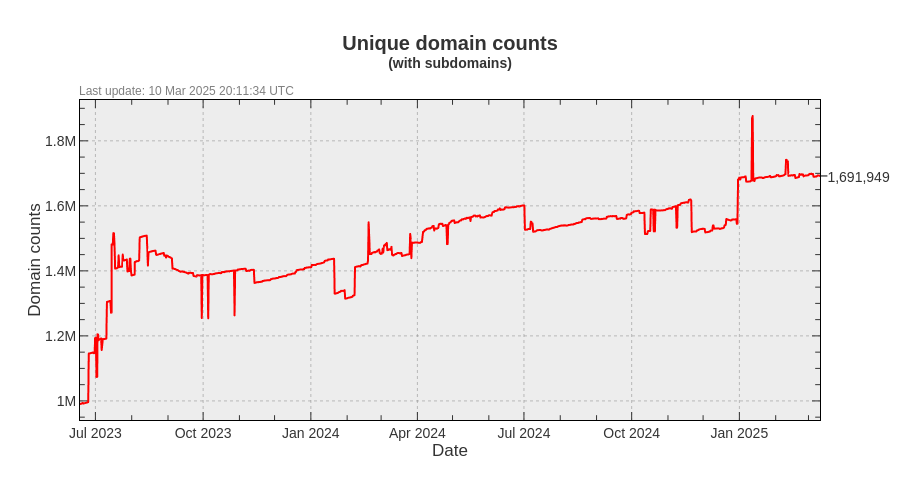
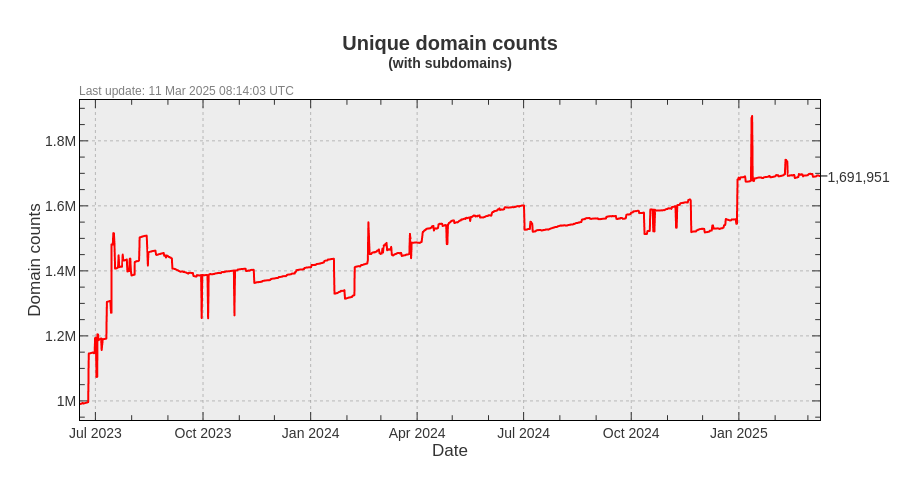
Update pages

diff --git a/README.md b/README.md
@@ -3,22 +3,22 @@ A blacklist file for blocking ads, trackers and malware domains.
 
[1 lines of base64/hex data omitted]
 
-- Unique domains: 1,691,949
-- Without subdomains: 1,070,006
-- Last update: 10 Mar 2025 20:11:34 UTC
-- Version: 2025.03.10.02
+- Unique domains: 1,691,951
+- Without subdomains: 1,069,937
+- Last update: 11 Mar 2025 08:14:03 UTC
+- Version: 2025.03.11.01
 
 
 ### Downloads:
 
 | Format             | Domain count      | Download Link |
 |:------------------ | -----------------:|:-------------:|
-| *Adblock Plus*     | 1,070,006 | [Download](https://dl.cenk.app/bad-hosts/bad-hosts-abp) |
-| *Wildcard domains* | 1,070,006 | [Download](https://dl.cenk.app/bad-hosts/bad-hosts-wildcard) |
-| *dnsmasq*          | 1,070,006 | [Download](https://dl.cenk.app/bad-hosts/bad-hosts-dnsmasq) |
-| *Unbound*          | 1,070,006 | [Download](https://dl.cenk.app/bad-hosts/bad-hosts-unbound) |
-| *hosts*            | 1,691,949 | [Download](https://dl.cenk.app/bad-hosts/hosts) |
-| *hosts (ipv6)*     | 1,691,949 | [Download](https://dl.cenk.app/bad-hosts/hosts-ipv6) |
-| *Plain domains*    | 1,691,949 | [Download](https://dl.cenk.app/bad-hosts/bad-hosts-domains) |
+| *Adblock Plus*     | 1,069,937 | [Download](https://dl.cenk.app/bad-hosts/bad-hosts-abp) |
+| *Wildcard domains* | 1,069,937 | [Download](https://dl.cenk.app/bad-hosts/bad-hosts-wildcard) |
+| *dnsmasq*          | 1,069,937 | [Download](https://dl.cenk.app/bad-hosts/bad-hosts-dnsmasq) |
+| *Unbound*          | 1,069,937 | [Download](https://dl.cenk.app/bad-hosts/bad-hosts-unbound) |
+| *hosts*            | 1,691,951 | [Download](https://dl.cenk.app/bad-hosts/hosts) |
+| *hosts (ipv6)*     | 1,691,951 | [Download](https://dl.cenk.app/bad-hosts/hosts-ipv6) |
+| *Plain domains*    | 1,691,951 | [Download](https://dl.cenk.app/bad-hosts/bad-hosts-domains) |
 
 
